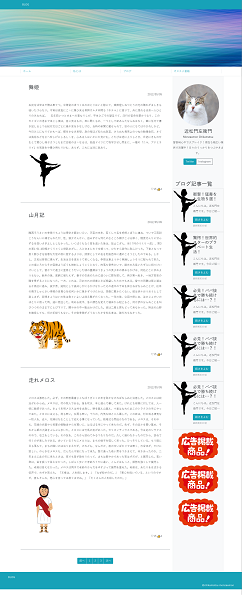
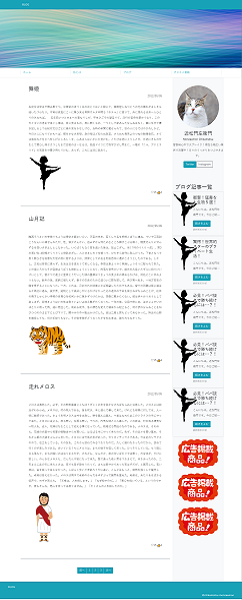
hagesou

Changed region(s): [[0.0, 0.33, 1.0, 1.0], [0.0, 0.06, 1.0, 0.9], [0.6364, 0.3, 0.6653, 0.33]]

diff --git a/F_kadai/works.html b/F_kadai/works.html
@@ -8,7 +8,9 @@
   <title>works</title>
 </head>
 <body>
+
 <div class="container-fluid bg-transparent p-0">
+
   <nav class="navbar navbar-expand-lg navbar-light" style="font-size:30px;">
     <a class="navbar-brand" href="home.html" style="font-size:30px;">PORTFOLIO</a>
     <button type="button" class="navbar-toggler" data-toggle="collapse" data-target="#navbarNav" aria-controls="navbarNav" aria-expanded="false" aria-label="ナビゲーションの切替">
@@ -29,7 +31,6 @@
     </div>
   </nav>
 
-</div>
 <div class="row justify-content-center">
 <div class="col-10 text-center pt-5">
   <div class="pt-5 tb-5 d-flex align-items-center justify-content-center" style="height: 600px;">
@@ -38,22 +39,35 @@
 </div>
 </div>
 
-<!-- 各カルーセルヘのリンクボタン -->
+<!--ボタン -->
 <nav class="hed-bt row bg-light mx-auto m-0" style="width:auto">
   <a class="btn py-3 btn-outline-secondary rounded-0 bg-white col"><strong>Webサイト制作</strong></a>
   <a class="btn py-3 btn-outline-secondary rounded-0 bg-white col"><strong>デザイン関係</strong></a>
   <a class="btn py-3 btn-outline-secondary rounded-0 bg-white col"><strong>プログラミング</strong></a>
 </nav>
 
-<div class="col-12 text-left p-5" style="background-color:#f5f5f5">
-  <h1 class="pt-3">Webサイト制作</h1>
-<img src="images/localhost_63342_WebstormProjects_m0119150.github.io_200610_index.html__ijt=qdarorpnjvs8ilmtjavo9f0r5.png" alt="#">
-<img src="images/localhost_63342_WebstormProjects_m0119150.github.io_200618_ninntenndo.html__ijt=n67ae0c3kks2kbhieabr89oblr.png" alt="#">
-<img src="images/localhost_63342_WebstormProjects_m0119150.github.io_200701_blog.html__ijt=bmd6peid4vs9fl2lb884erhj12.png" alt="#">
+  <div class="row">
+    <div class="col-12 text-left p-5" style="background-color:#f5f5f5">
+
+      <h1 class="p-3">Webサイト制作</h1>
+        <div class="row justify-content-center">
+          <figure><div class="m-2 col-xl-3 img-fluid"><img src="images/localhost_63342_WebstormProjects_m0119150.github.io_200701_blog.html__ijt=bmd6peid4vs9fl2lb884erhj12.png" alt="#"></div></figure>
+          <figure><div class="m-2 col-xl-3 img-fluid"><img src="images/localhost_63342_WebstormProjects_m0119150.github.io_200618_ninntenndo.html__ijt=n67ae0c3kks2kbhieabr89oblr.png" alt="#"></div></figure>
+          <figure> <div class="m-2 col-xl-3"><img src="images/localhost_63342_WebstormProjects_m0119150.github.io_200610_index.html__ijt=qdarorpnjvs8ilmtjavo9f0r5.png" alt="#"></div></figure>
+          <figure><div class="m-2 col-xl-3"><img style="width: 400px; height: 600px;" src="images/_C__Users_m011915090_WebstormProjects_hebinorobin_%25E3%2583%2598%25E3%2583%2593%25E3%2581%25AE%25E3%2583%25AD%25E3%2583%2593%25E3%2583%25B3.html.png" alt="#"></div></figure>
+       </div>
+
+      <h1 class="p-3">タイポグラフィー</h1>
+      <div class="row justify-content-center">
+        <figure><div class="m-2 col-xl-3 img-fluid"><img src="images/M0119150%20_01._page-0001.jpg" alt="#"></div></figure>
+      </div>
+
+    </div>
+  </div>
+
+
 
 </div>
-
-
 </body>
 <!--ここはBootstrapのあれ-->
 <script src="https://code.jquery.com/jquery-3.5.1.slim.min.js" integrity="sha384-DfXdz2htPH0lsSSs5nCTpuj/zy4C+OGpamoFVy38MVBnE+IbbVYUew+OrCXaRkfj" crossorigin="anonymous"></script>

diff --git a/F_kadai/css/profile.css b/F_kadai/css/profile.css
@@ -1,7 +1,7 @@
 @charset "UTF-8";
 
 body {
- background: #0bd url("images/pexels-flors-q-685080.jpg") no-repeat;
+ background: #0bd url("../images/pexels-flors-q-685080.jpg") no-repeat;
  background-blend-mode: lighten;
  background-size: cover;
  line-height: 2em;

diff --git a/F_kadai/css/home.css b/F_kadai/css/home.css
@@ -1,7 +1,7 @@
 @charset "UTF-8";
 
 body {
-  background: #0bd url("") no-repeat;
+  background: #0bd url("../images/pexels-flors-q-685080.jpg") no-repeat;
   background-blend-mode: lighten;
   background-size: cover;
 }
